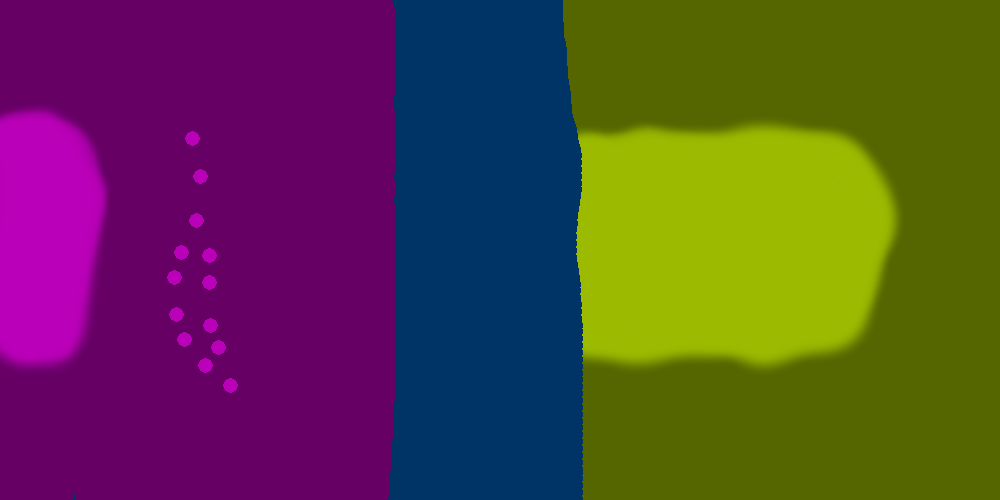
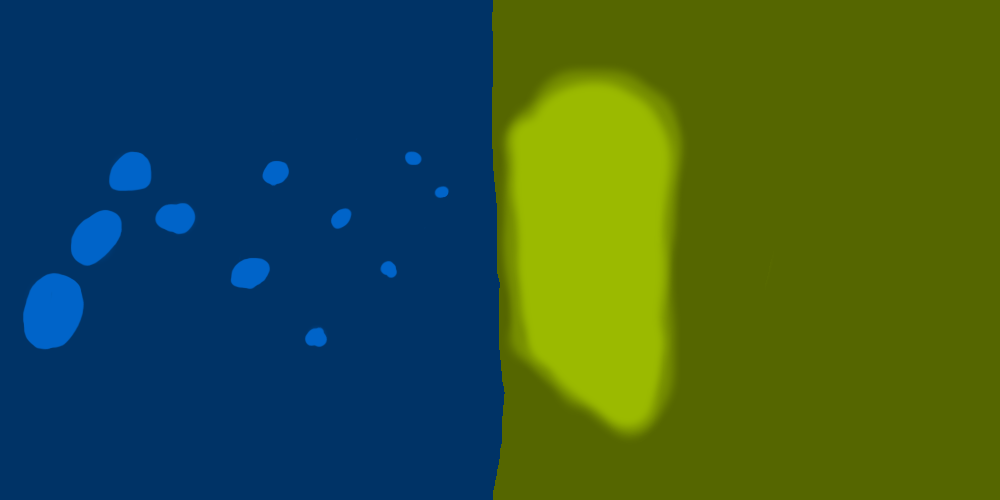
Update island collison preset

diff --git a/js/presets.ts b/js/presets.ts
@@ -105,19 +105,6 @@ const presets: Record<string, IPreset> = {
   "islandCollision": {
     img: "data/islandCollision.png",
     init(plates: any) {
-      const yellowPlate = plates[70]; // 70 hue
-      const bluePlate = plates[210]; // 210 hue
-      const violetPlate = plates[300]; // 300 hue
-      yellowPlate.density = 1;
-      bluePlate.density = 2;
-      violetPlate.density = 3;
-      violetPlate.setHotSpot(new THREE.Vector3(0, 0, 1), new THREE.Vector3(2, 0, 0));
-      yellowPlate.setHotSpot(new THREE.Vector3(0, 0, -1), new THREE.Vector3(4, 0, 0));
-    }
-  },
-  "islandCollision2": {
-    img: "data/islandCollision2.png",
-    init(plates: any) {
       const bluePlate = plates[210]; // 210 hue
       const yellowPlate = plates[70]; // 70 hue
       bluePlate.density = 1;
